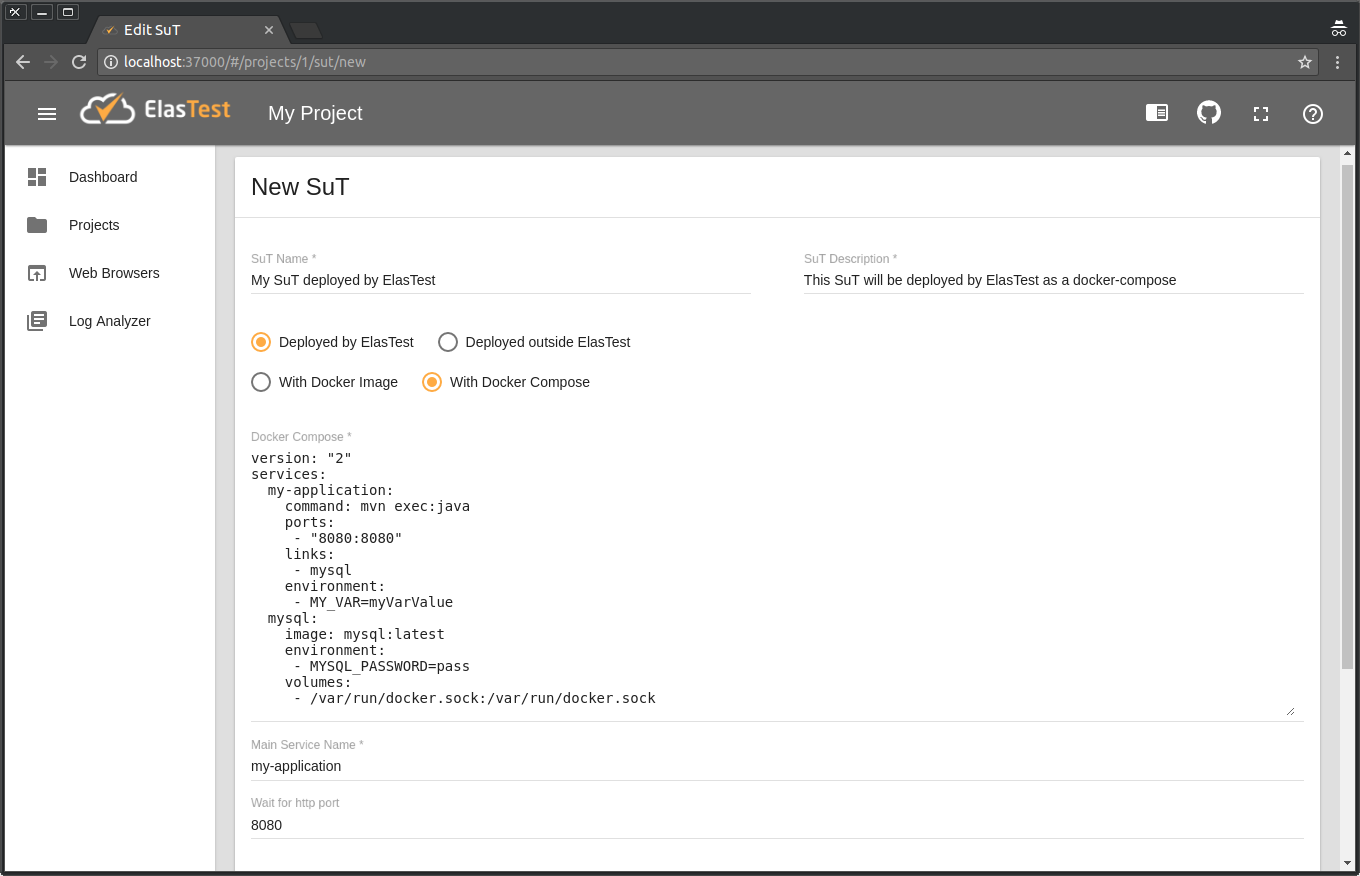
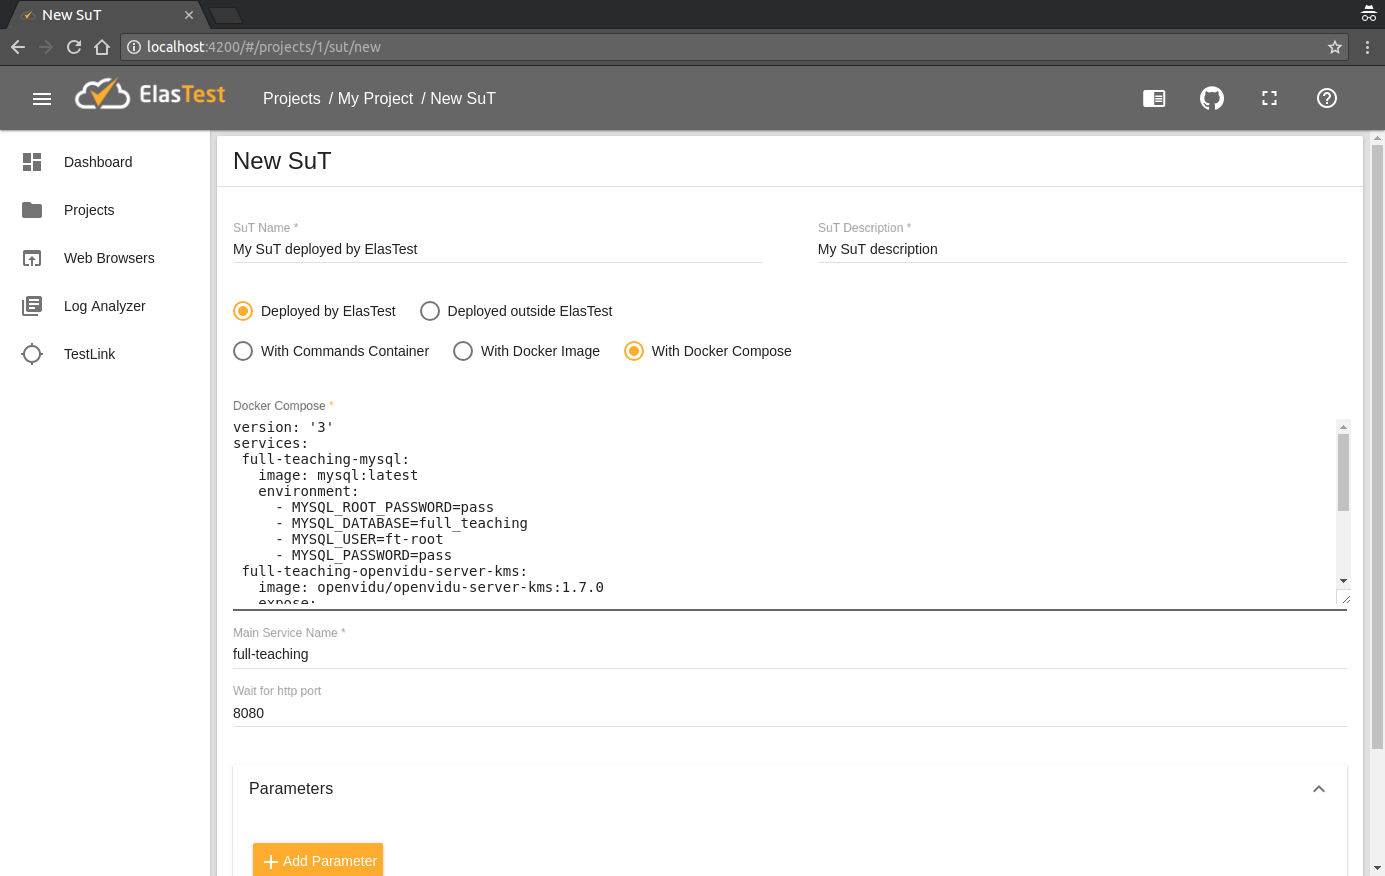
sut documentation updated

diff --git a/docs/testing/sut.md b/docs/testing/sut.md
@@ -15,6 +15,21 @@ When creating a new SuT you are able to defined what mode of deployment ElasTest
 
 <h4 class="holder-subtitle link-top">SuT deployed by ElasTest</h4>
 
+<h6 class="small-subtitle">With Commands Container</h6>
+
+Your SuT is packaged as a Docker image. You must write the *Commands Container Image* and the commands below. These commands will run like the docker image CMD.
+
+Fields to declare:
+
+- **Commands container images**: name of the container image
+- **Commands**: commands to execute
+- **Wait for http port**: port that ElasTest should wait for to be available before running your TJobs
+
+<p></p>
+<div class="docs-gallery inline-block">
+    <a data-fancybox="gallery-1" href="/docs/testing/images/docker_image.png"><img class="img-responsive img-wellcome" src="/docs/testing/images/commands_container.png"/></a>
+</div>
+
 <h6 class="small-subtitle">With Docker image</h6>
 
 Your SuT is packaged as a Docker image. ElasTest will pull it from DockerHub and run it as the `Dockerfile` states.

diff --git a/docs/testing/e2e-rest.md b/docs/testing/e2e-rest.md
@@ -90,7 +90,7 @@ Complete the form fields:
 
 - **SuT Name**: name of the Sut (`Rest App`)
 - **SuT Description**: description of the SuT (`Rest App description`)
-- **With Docker Image** / **With Docker Compose**: whether to deploy the SuT on ElasTest as a Docker *image* or a *docker-compose* (`With Docker Image`)
+- **With Commands Container** / **With Docker Image** / **With Docker Compose**: whether to deploy the SuT on ElasTest as *commands container*, as a Docker *image* or a *docker-compose* (`With Docker Image`)
 - **Docker Image**: image of the SuT (`elastest/demo-rest-java-test-sut`)
 - **Wait for http port**: which port of the SuT should ElasTest wait to be available before starting the TJob (`8080`)
 
